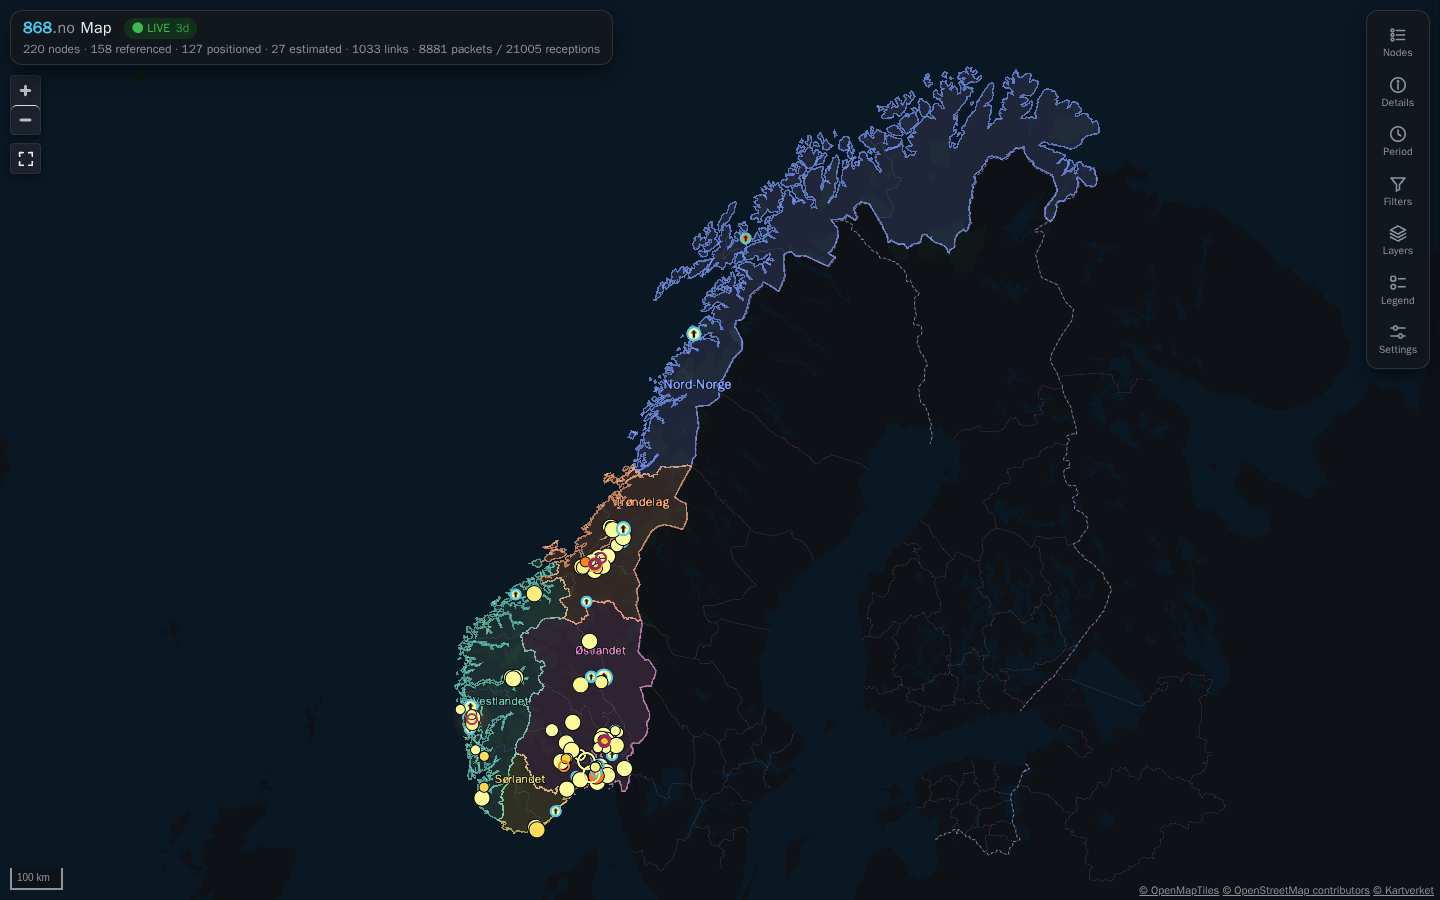
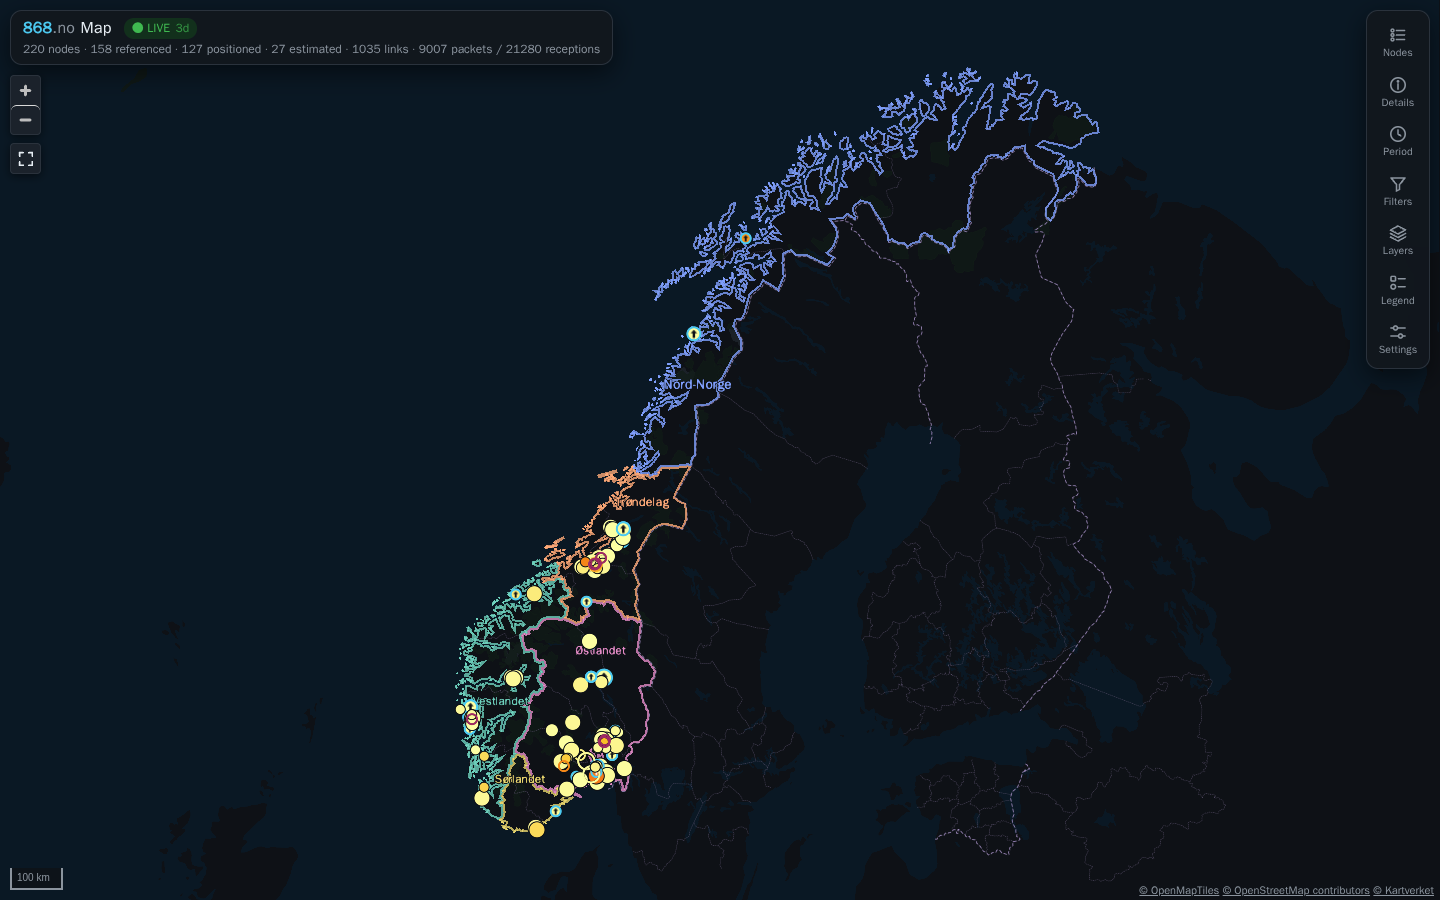
Inset region outlines without fill; float zoom buttons above the header
Each region's outline is drawn inside its own boundary with a path offset,
so neighbouring borders run side by side instead of overlapping, and the
faint fill is gone. A unit test checks the ring winding the inset relies on.

The zoom buttons and fit control now stack above the header island, so its
shadow falls behind them. The flaky panel e2e test retries its map click.

Changed region(s): [[0.3125, 0.0622, 0.7812, 0.9333]]

diff --git a/frontend/src/map/regions.ts b/frontend/src/map/regions.ts
@@ -3,6 +3,7 @@
 // simplified by scripts/regions.sh. Fetched only when the layer is on.
 import { useEffect, useState } from 'react'
 import { GeoJsonLayer, TextLayer } from '@deck.gl/layers'
+import { PathStyleExtension, type PathStyleExtensionProps } from '@deck.gl/extensions'
 import type { Layer } from '@deck.gl/core'
 import regionsUrl from '../assets/regions.geojson?url'
 import { UNDER_LABELS, type RGBA } from './deckShared'
@@ -10,6 +11,13 @@ import type { MapPalette } from './palette'
 import { REGION_LABELS, REGION_LABEL_MAX_ZOOM, type RegionCollection, type RegionFeature, type RegionId } from './regionData'
 
 export { REGION_LABELS, type RegionCollection, type RegionId } from './regionData'
+
+// Outer rings run counter-clockwise (RFC 7946, as scripts/regions.sh writes
+// them), so a negative offset puts each outline inside its own region:
+// neighbours' borders run side by side along a shared boundary, not on top
+// of each other.
+const insetExt = new PathStyleExtension({ offset: true })
+const INSET = -0.5 // line widths: the line's outer edge on the boundary
 
 let cached: Promise<RegionCollection> | undefined
 
@@ -37,18 +45,18 @@ export function useRegions(enabled: boolean): RegionCollection | null {
   return enabled ? data : null
 }
 
-/** Faint per-region fills with outlines, and the region names at overview zooms. */
+/** Per-region outlines drawn inside each region (no fill), and the region names at overview zooms. */
 export function regionLayers(fc: RegionCollection, zoom: number, c: MapPalette): Layer[] {
   const tint = (id: RegionId, a: number) => [...c.regions[id], a] as RGBA
   const layers: Layer[] = [
-    new GeoJsonLayer<RegionFeature['properties']>({
+    new GeoJsonLayer<RegionFeature['properties'], PathStyleExtensionProps<RegionFeature>>({
       id: 'regions', ...UNDER_LABELS, data: fc as never,
-      filled: true, stroked: true,
-      getFillColor: (f) => tint(f.properties.id, c.regionFillAlpha),
-      getLineColor: (f) => tint(f.properties.id, 170),
-      lineWidthUnits: 'pixels', getLineWidth: 1.5,
+      filled: false, stroked: true,
+      getLineColor: (f) => tint(f.properties.id, 200),
+      lineWidthUnits: 'pixels', getLineWidth: 2,
+      extensions: [insetExt], getOffset: INSET,
       pickable: false,
-      updateTriggers: { getFillColor: [c], getLineColor: [c] },
+      updateTriggers: { getLineColor: [c] },
     }),
   ]
   if (zoom < REGION_LABEL_MAX_ZOOM) {

diff --git a/frontend/src/index.css b/frontend/src/index.css
@@ -134,7 +134,7 @@ button[aria-pressed='true'], button[aria-selected='true'] { background: var(--pr
 .map-wrap { position: relative; min-height: 0; }
 .map { position: absolute; inset: 0; }
 /* Sits under MapLibre's zoom buttons (top-left), styled as one of them. */
-.fit-ctrl { position: absolute; top: calc(var(--head-h) + 2 * var(--gap) + 68px); left: 10px; margin: 0 !important; z-index: 2; }
+.fit-ctrl { position: absolute; top: calc(var(--head-h) + 2 * var(--gap) + 68px); left: 10px; margin: 0 !important; z-index: 11; }
 .fit-ctrl button { display: grid; place-items: center; color: var(--text); border: none; border-radius: 4px; padding: 0; width: 29px; height: 29px; background: transparent; }
 .fit-ctrl button:disabled { opacity: 0.35; }
 .attribution { position: absolute; right: 0; bottom: 0; font-size: 11px; background: var(--overlay); padding: 2px 6px; color: var(--muted); }
@@ -291,6 +291,7 @@ table.hear th, table.hear td { text-align: left; padding: 2px 4px; border-bottom
 button.danger { border-color: var(--err); color: var(--err); }
 button.danger:hover { background: var(--err); color: var(--bg); }
 .refined { margin-top: 4px; color: var(--accent); }
-/* MapLibre's top-left controls (zoom) sit below the floating header (D-082). */
-.maplibregl-ctrl-top-left { top: calc(var(--head-h) + var(--gap)); }
+/* MapLibre's top-left controls (zoom) sit below the floating header, above
+   its shadow: they float too (D-082). */
+.maplibregl-ctrl-top-left { top: calc(var(--head-h) + var(--gap)); z-index: 11 !important; }
 

diff --git a/frontend/src/map/palette.ts b/frontend/src/map/palette.ts
@@ -26,8 +26,7 @@ export interface MapPalette {
   pingOrigin: RGB // first broadcast by the originator
   pingRelay: RGB // rebroadcast by a relay
   pingCore: (c: RGB) => RGB // the travelling link's bright core
-  regions: Record<RegionId, RGB> // landsdel tints (outline, name and faint fill)
-  regionFillAlpha: number
+  regions: Record<RegionId, RGB> // landsdel tints (outline and name)
   ageStops: [number, number, number][] // node colour by last heard (model.ts)
   zeroCost: RGB // chevrons on 0-cost links (D-068)
   trail: RGB // trails behind moving nodes, and the airplane badge (D-073)
@@ -56,7 +55,6 @@ export const PALETTES: Record<Theme, MapPalette> = {
     pingRelay: [255, 196, 110],
     pingCore: (c) => toward(c, 255, 0.45),
     regions: { nord: [129, 161, 255], trondelag: [255, 170, 120], vest: [110, 210, 190], ost: [230, 140, 200], sor: [235, 215, 110] },
-    regionFillAlpha: 38,
     ageStops: AGE_STOPS,
     zeroCost: [255, 214, 90],
     trail: [225, 232, 240],
@@ -81,7 +79,6 @@ export const PALETTES: Record<Theme, MapPalette> = {
     pingRelay: [222, 128, 0],
     pingCore: (c) => toward(c, 0, 0.25),
     regions: { nord: [60, 90, 200], trondelag: [196, 98, 36], vest: [16, 132, 112], ost: [168, 58, 138], sor: [150, 120, 10] },
-    regionFillAlpha: 40,
     ageStops: AGE_STOPS_LIGHT,
     zeroCost: [176, 118, 0],
     trail: [40, 46, 56],

diff --git a/frontend/e2e/app.spec.ts b/frontend/e2e/app.spec.ts
@@ -256,8 +256,13 @@ test('the panel is closed until something is selected, and closes again when the
   // Hovering the node first, as a user would: a tooltip, or its name cluster fanning out.
   await expect.poll(async () => (await page.locator('.tooltip').isVisible()) || (await page.evaluate(() =>
     (window as unknown as { __meshmap: Hook }).__meshmap.layers().some((l) => l.id === 'label-leaders')))).toBe(true)
-  await page.mouse.click(box.x + pt.x, box.y + pt.y)
-  await expect(page.locator('#dock')).toBeVisible()
+  // The headless renderer sometimes keeps the page busy long enough between
+  // mouse down and up that the map takes it for a long press, not a click:
+  // click again (a no-op once selected) until the panel opens.
+  await expect(async () => {
+    await page.mouse.click(box.x + pt.x, box.y + pt.y)
+    await expect(page.locator('#dock')).toBeVisible({ timeout: 2000 })
+  }).toPass({ timeout: 20_000 })
   await expect(page.getByRole('button', { name: 'Details', exact: true })).toHaveAttribute('aria-pressed', 'true')
   await page.getByRole('button', { name: 'Close details' }).click()
   await expect(page.locator('#dock')).toBeHidden()

diff --git a/frontend/tests/regions.test.ts b/frontend/tests/regions.test.ts
@@ -39,4 +39,14 @@ describe('Norway regions layer', () => {
     expect(at(10.75, 59.91)).toBe('Østlandet') // Oslo
     expect(at(7.99, 58.15)).toBe('Sørlandet') // Kristiansand
   })
+  // The layer insets each outline with a negative path offset, which lands
+  // inside the region only when outer rings run counter-clockwise.
+  it('winds outer rings counter-clockwise and holes clockwise (RFC 7946)', () => {
+    const area = (r: Ring) => r.slice(1).reduce((s, b, i) => s + r[i][0] * b[1] - b[0] * r[i][1], 0) / 2
+    for (const f of fc.features)
+      for (const [outer, ...holes] of polygons(f.geometry)) {
+        expect(area(outer)).toBeGreaterThan(0)
+        for (const h of holes) expect(area(h)).toBeLessThan(0)
+      }
+  })
 })

diff --git a/docs/decisions.md b/docs/decisions.md
@@ -493,7 +493,7 @@ From the third review:
 Operator request: a layer that splits Norway into its named regions (landsdeler): Nord-Norge, Trøndelag, Vestlandet, Østlandet and Sørlandet.
 - **Which counties:** Nord-Norge is Nordland, Troms and Finnmark; Vestlandet is Rogaland, Vestland and Møre og Romsdal; Østlandet is Oslo, Akershus, Østfold, Buskerud, Vestfold, Telemark and Innlandet; Sørlandet is Agder. This follows [Store norske leksikon](https://snl.no/%C3%98stlandet) ([Sørlandet](https://snl.no/S%C3%B8rlandet_-_landsdel)) and Wikipedia ([Landsdeler i Norge](https://no.wikipedia.org/wiki/Landsdeler_i_Norge), [List of regions of Norway](https://en.wikipedia.org/wiki/List_of_regions_of_Norway)), which agree on every county. Kartverket publishes the county boundaries but no grouping into regions. The regions have no formal status: parts of Telemark and Rogaland are sometimes counted as Sørlandet, and before 1902 Agder and parts of Telemark were counted as Vestlandet. Moving a county is one line in `scripts/regions.js`.
 - **Data:** Kartverket's 2024 county boundaries (CC BY 4.0), clipped to the coastline and simplified by github.com/robhop/fylker-og-kommuner (pinned commit). `scripts/regions.sh` dissolves them into regions with mapshaper (pinned) and writes `frontend/src/assets/regions.geojson` (98 kB). Islands under 2 km² are dropped. The file is a hashed build asset, so the service worker precaches it, but the page only fetches it once the layer is switched on.
-- **Drawing:** a faint tint and an outline per region, beneath everything else and under the basemap's labels. Names sit at hand-picked inland points away from the busiest node clusters (a unit test checks each falls inside its own region), scale with zoom and give way to node names from zoom 9. The layer is not pickable, so it never takes a click or hover from the mesh.
+- **Drawing:** an outline per region, without fill, beneath everything else and under the basemap's labels. Names sit at hand-picked inland points away from the busiest node clusters (a unit test checks each falls inside its own region), scale with zoom and give way to node names from zoom 9. The layer is not pickable, so it never takes a click or hover from the mesh. Each outline is drawn inset, entirely inside its own region (a path offset of half a line width; this relies on counter-clockwise outer rings, which a unit test checks), so neighbours' borders run side by side instead of overlapping (operator request, 2026-11-01).
 - **Switch:** "Regions (landsdeler)" under Map in the layers panel, off by default. "© Kartverket" joins the attribution while it is on.
 
 
@@ -633,6 +633,6 @@ Operator request: apply drop shadows consistently. Only the rail and panel islan
 
 Operator requests: make the header a floating island too; and stop the coordinates and map credits moving when a tool panel opens.
 - **Header island:** the wordmark, the live indicator (and the updating spinner) on one line and the counters below, in a rounded card at the top left with the islands' border, blur and shadow (D-071, D-081). The map runs to the top edge. The card leaves room for the rail, and for the panel when one is open; on phones the counters are hidden as before.
-- **Below it:** MapLibre's zoom buttons, the fit control and the banners sit under the card. Its height is measured and published as `--head-h`. Fitting to data, flying to a node, framing a packet route and the start view on Norway (D-074) keep content clear of it as they do of the panel.
+- **Below it:** MapLibre's zoom buttons, the fit control and the banners sit under the card. Its height is measured and published as `--head-h`. Fitting to data, flying to a node, framing a packet route and the start view on Norway (D-074) keep content clear of it as they do of the panel. The zoom buttons and the fit control are stacked above the card, so its shadow falls behind them, not over them.
 - **Corner labels:** the coordinates readout and the map credits stay in the bottom-right corner whatever opens. A panel may cover them partly, by the operator's choice.
 
